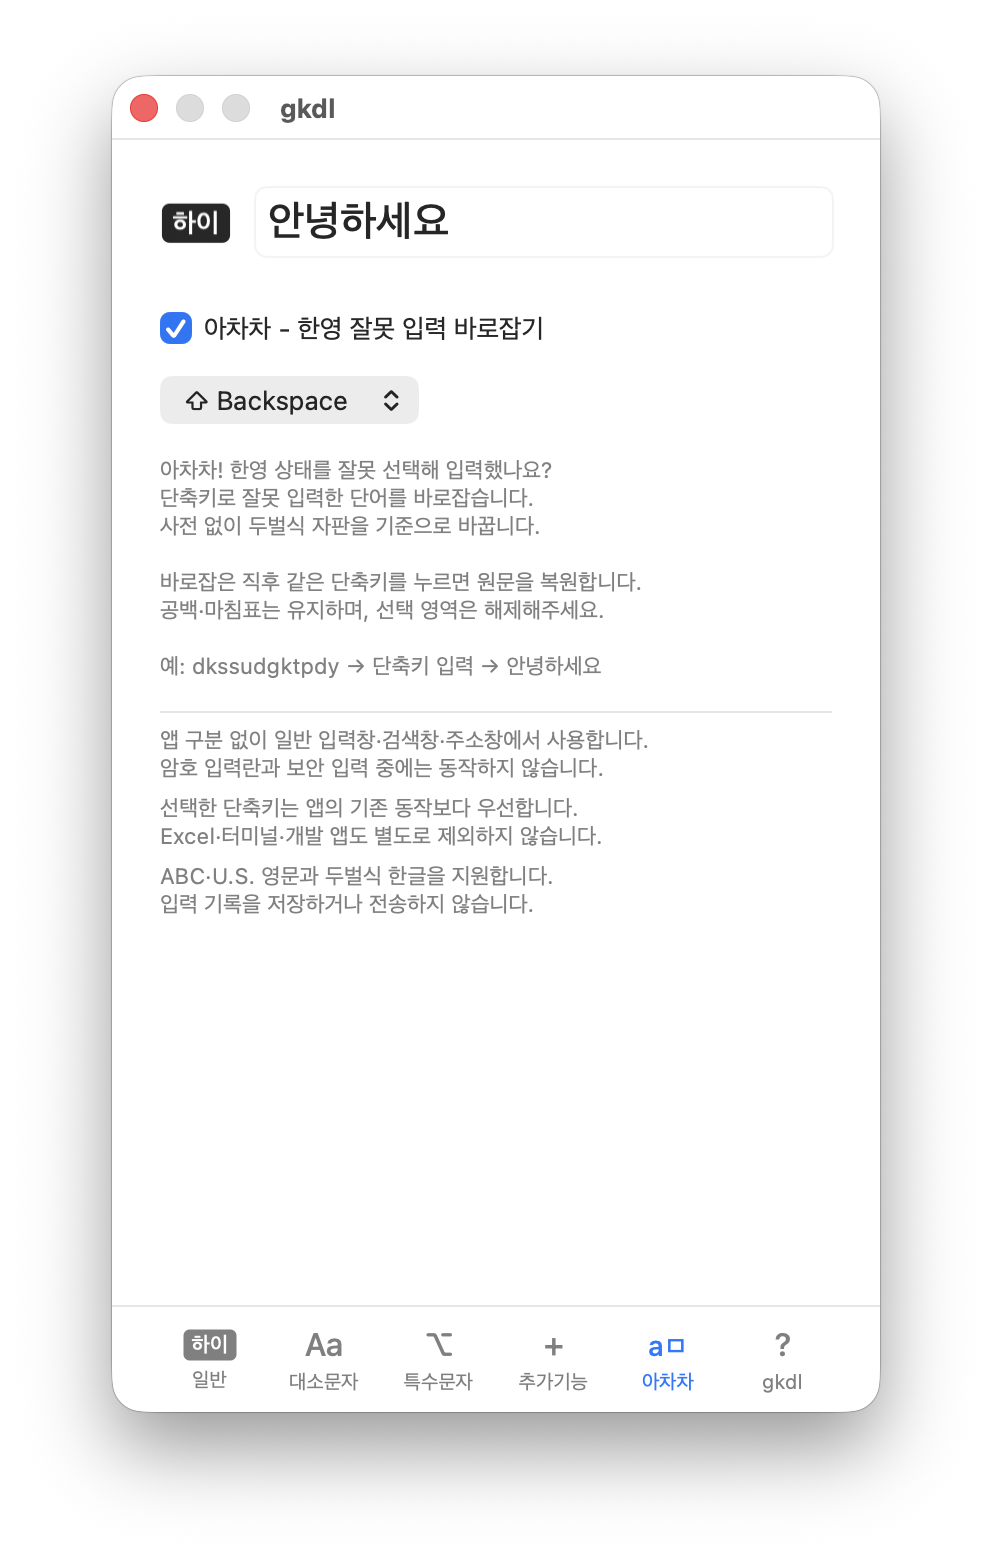
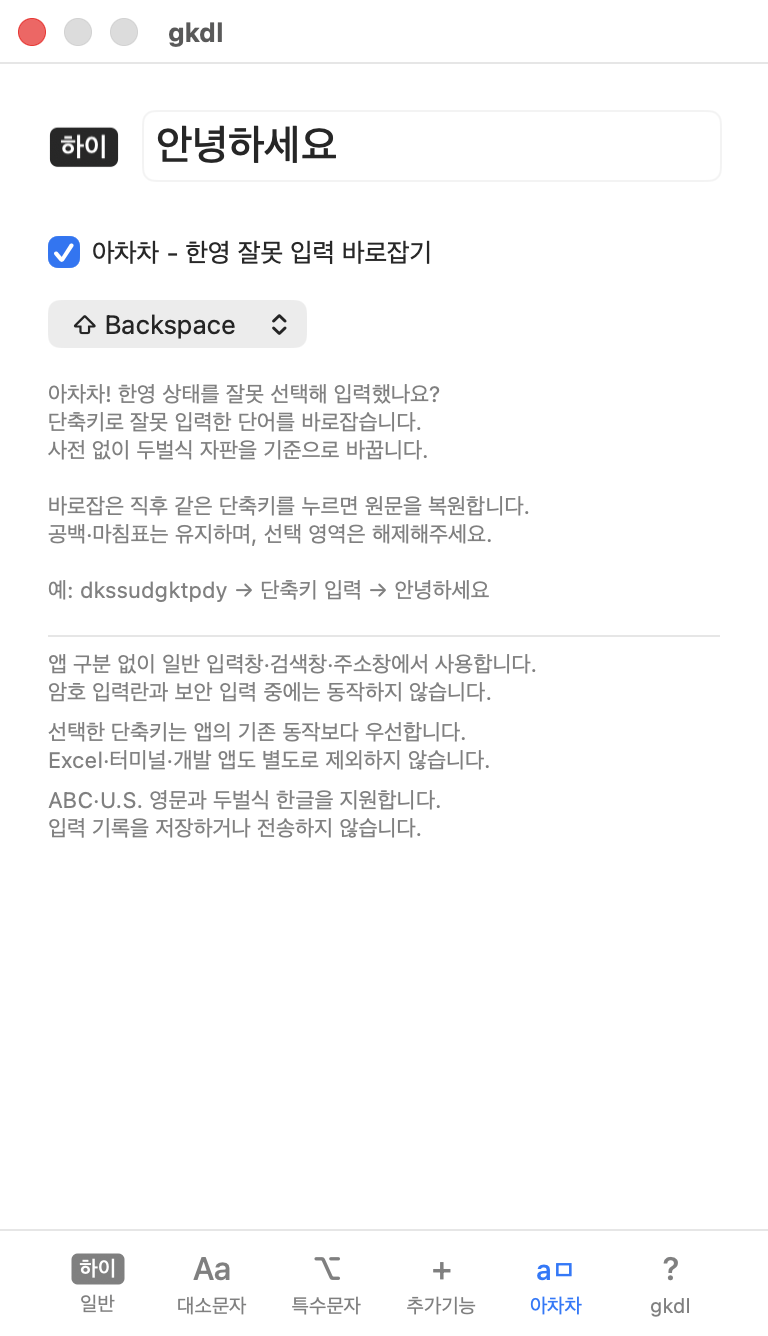
[DOCS] README 이미지를 gkdl 설정 화면으로 교체

Changed region(s): [[0.0625, 0.0614, 0.9375, 0.982], [0.0, 0.0, 0.1875, 0.0614], [0.2188, 0.0, 0.2812, 0.0307]]

diff --git a/README.md b/README.md
@@ -46,9 +46,7 @@
 - **길게 눌러 대소문자 전환**: 누르는 즉시 한영을 전환하고, 길게 유지하면 대소문자를 전환합니다.
 - **대문자 상태 보존**: 영문 대문자 상태에서 한글로 전환해도 영어로 돌아오면 대문자 상태를 유지합니다.
 
-<img width="502" alt="원작 gksdud의 한영 전환과 길게 눌러 대소문자 전환하는 동작 예시" src="https://github.com/user-attachments/assets/faf9f36d-bbff-4c5f-8a53-785948fc32cc" />
-
-*원작 gksdud의 동작 예시입니다.*
+<img src="docs/screenshots/caps-lock.png" width="384" alt="gkdl 대소문자 설정: 길게 눌러 대소문자 전환과 대문자 상태 보존" />
 
 ### 메뉴바 스타일
 
@@ -56,9 +54,7 @@
 
 **일반** 탭에서 원작의 **한 / dud**, **한 / A**, **KO / EN**, **ㅎuㅎ / dud**도 선택할 수 있습니다. 기존에 선택한 스타일은 유지합니다. 메뉴바 아이콘은 `Command + 드래그`로 위치를 옮길 수 있으며, 기존 입력기 아이콘을 대신해 사용할 수 있습니다.
 
-<img width="210" alt="원작 gksdud의 입력 상태 표시와 메뉴바 스타일 예시" src="https://github.com/user-attachments/assets/9719494e-8f66-4768-859e-c7c4f5cb2db4" />
-
-*원작 gksdud의 메뉴바 스타일 예시입니다.*
+<img src="docs/screenshots/menu-bar-styles.png" width="384" alt="gkdl 메뉴바 스타일 선택: 원작의 네 가지와 하이 / gkdl, 한글·영문 아이콘 미리보기" />
 
 ### 특수문자와 다국어
 
